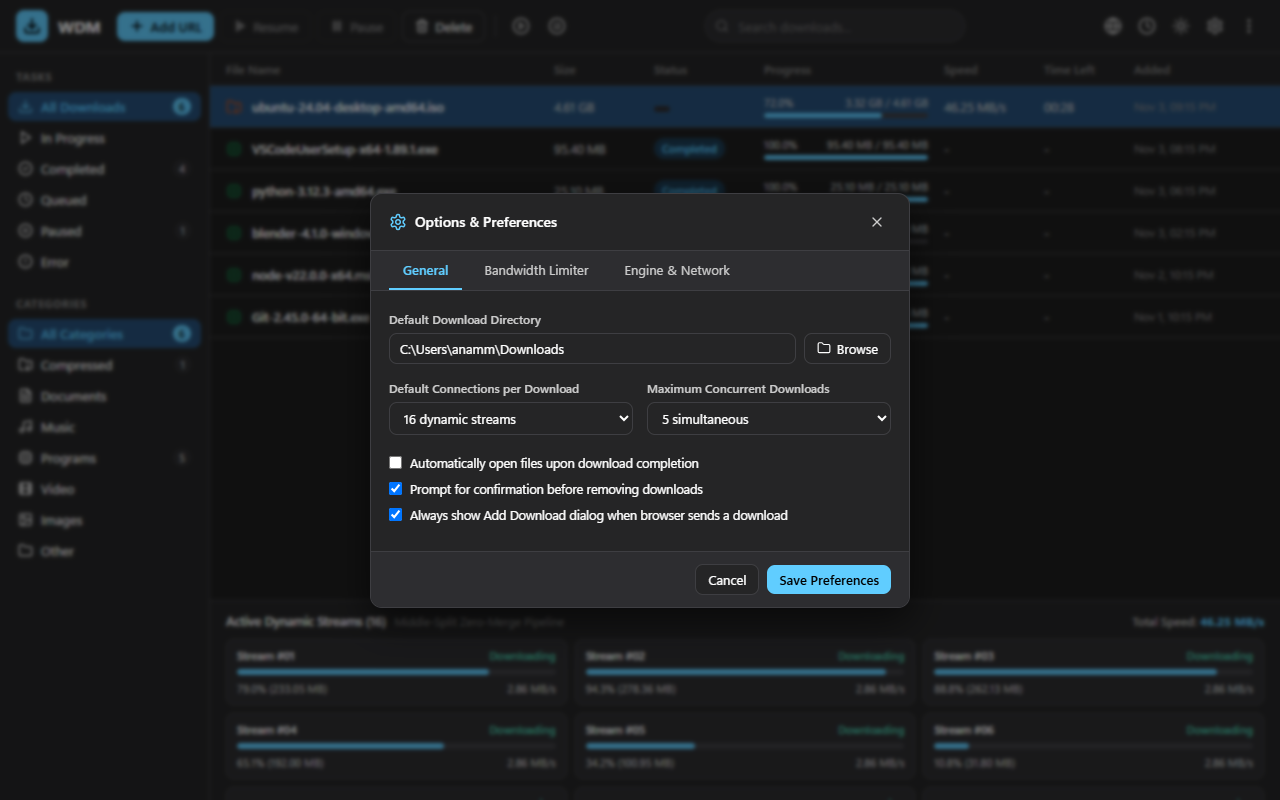
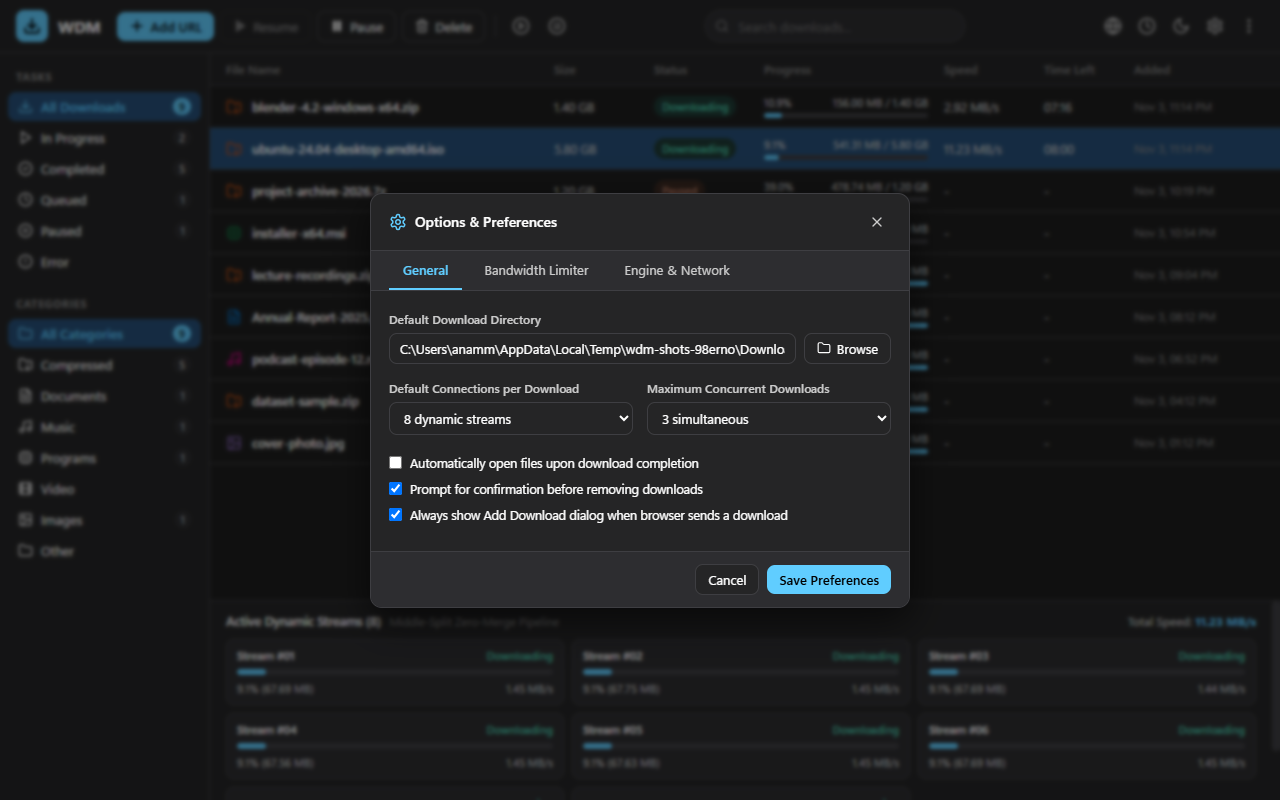
docs(media): real 2.5.0 screenshots from the running app; CONTRIBUTING for the Rust stack; grabber filter chips wrap

diff --git a/src-ui/src/components/BatchGrabberModal.tsx b/src-ui/src/components/BatchGrabberModal.tsx
@@ -147,8 +147,9 @@ export const BatchGrabberModal: React.FC<BatchGrabberModalProps> = ({
               alignItems: 'center',
               justifyContent: 'space-between',
               paddingTop: '6px',
+              gap: '8px',
             }}>
-              <div style={{ display: 'flex', gap: '6px' }}>
+              <div style={{ display: 'flex', gap: '6px', flexWrap: 'wrap' }}>
                 {categories.map((cat) => (
                   <button
                     key={cat}

diff --git a/CONTRIBUTING.md b/CONTRIBUTING.md
@@ -1,25 +1,25 @@
 # Contributing
 
 ## Setup
-.NET 10 SDK; Windows 10/11 to run the app (the core library and tests build on any OS). Node ≥ 20 for the extension tests.
+Rust (1.80+), Node 20+ and Windows 10/11 to run the app (the core crate and its tests build on any OS). Read `.agents/AGENTS.md` first.
 
 ```
-dotnet restore Wdm.slnx
-dotnet build Wdm.slnx -c Release                    # Windows
-dotnet build Wdm.slnx -c Release -p:EnableWindowsTargeting=true   # Linux/macOS: compiles the WPF UI, cannot run it
-dotnet test tests/Wdm.Tests -c Release
-node --test tests/extension/background.test.mjs
+cd src-ui && npm ci && npm run build && cd ..   # the desktop crate embeds src-ui/dist, so build the UI first
+cargo build --workspace
+cargo test --workspace
+cargo clippy --workspace --all-targets -- -D warnings
+node --test "tests/extension/*.test.mjs"
 ```
 
 ## Rules
-- Every bug fix ships with a regression test that fails without the fix. Use `TestServer` (in-process, loopback); no internet in tests.
-- Tests that use the IPC pipe belong to `[Collection("NamedPipe")]`.
-- Keep Core free of UI/OS-specific code; preserve settings, `downloads.json` and `.wdm-state` compatibility (add fields, don't rename).
+- Every bug fix ships with a regression test that fails without the fix. Engine tests use the in-process loopback servers in `crates/wdm-core/tests/common`; no internet in tests.
+- Keep `wdm-core` free of UI/OS-specific code; preserve settings, `downloads.json` and `.wdm-state` compatibility (add fields, don't rename).
 - Don't weaken security checks to make a test pass; don't add telemetry or network calls other than user-initiated downloads.
+- Check a change to the window by driving the release exe, not only the Vite page (see `AGENTS.md`, rule 12).
 - Release steps: see `docs/audit/RELEASE_AUDIT.md` and `docs/audit/OWNER_ACTION_PLAN.md`.
 
 ## Browser extension
-Load `extension/` unpacked (Developer mode). Native host registration: `Wdm.NativeHost.exe --register [--extension-id <id>]`. Chrome Web Store ID: `flnbghmpkajibfdfhbcfhkcjkhlokfgi`.
+Load `extension/` unpacked (Developer mode). Native host registration: `wdm-nativehost.exe --register [--extension-id <id>]`. Chrome Web Store ID: `flnbghmpkajibfdfhbcfhkcjkhlokfgi`.
 
 ## Store screenshots
 The popup screenshots in `docs/media/screenshots` are committed. After changing `extension/popup.*`, regenerate them and rebuild the store images:
